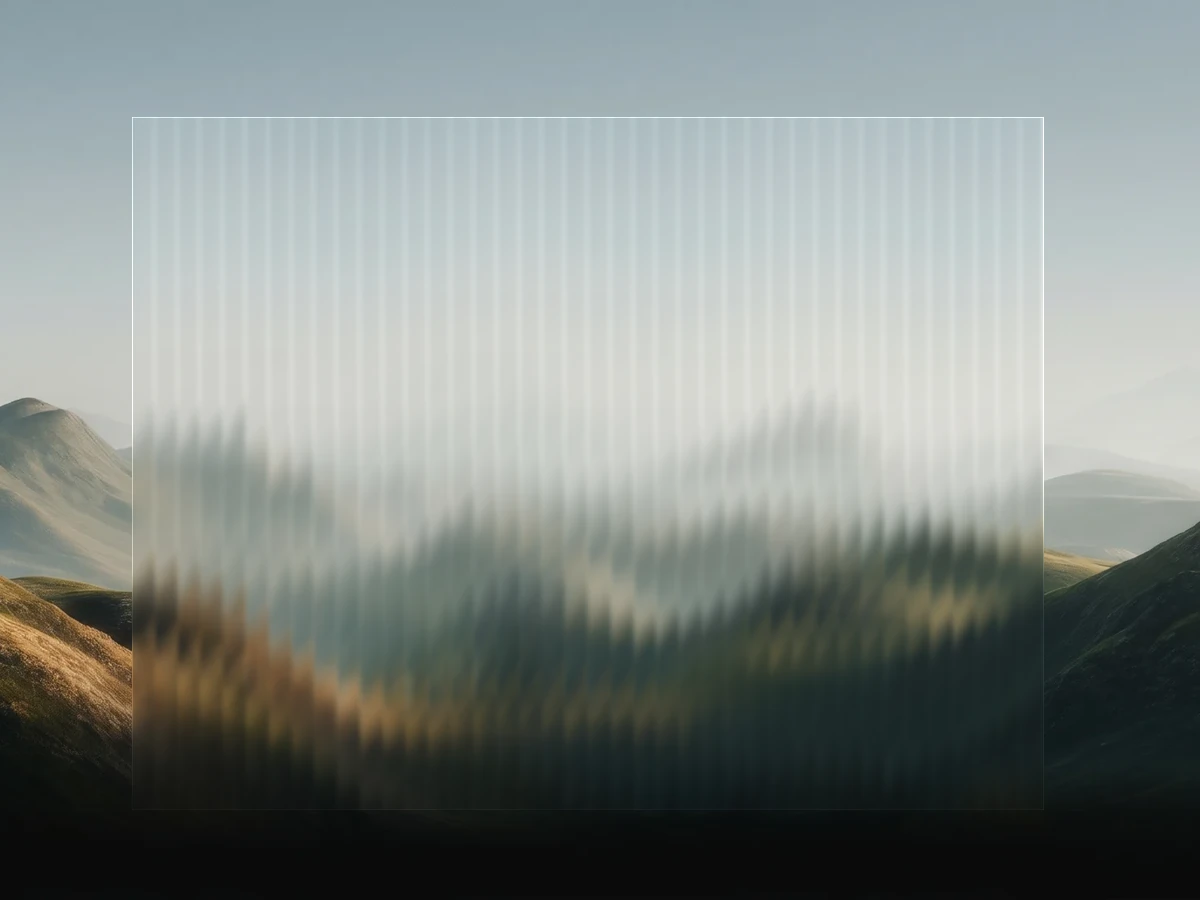
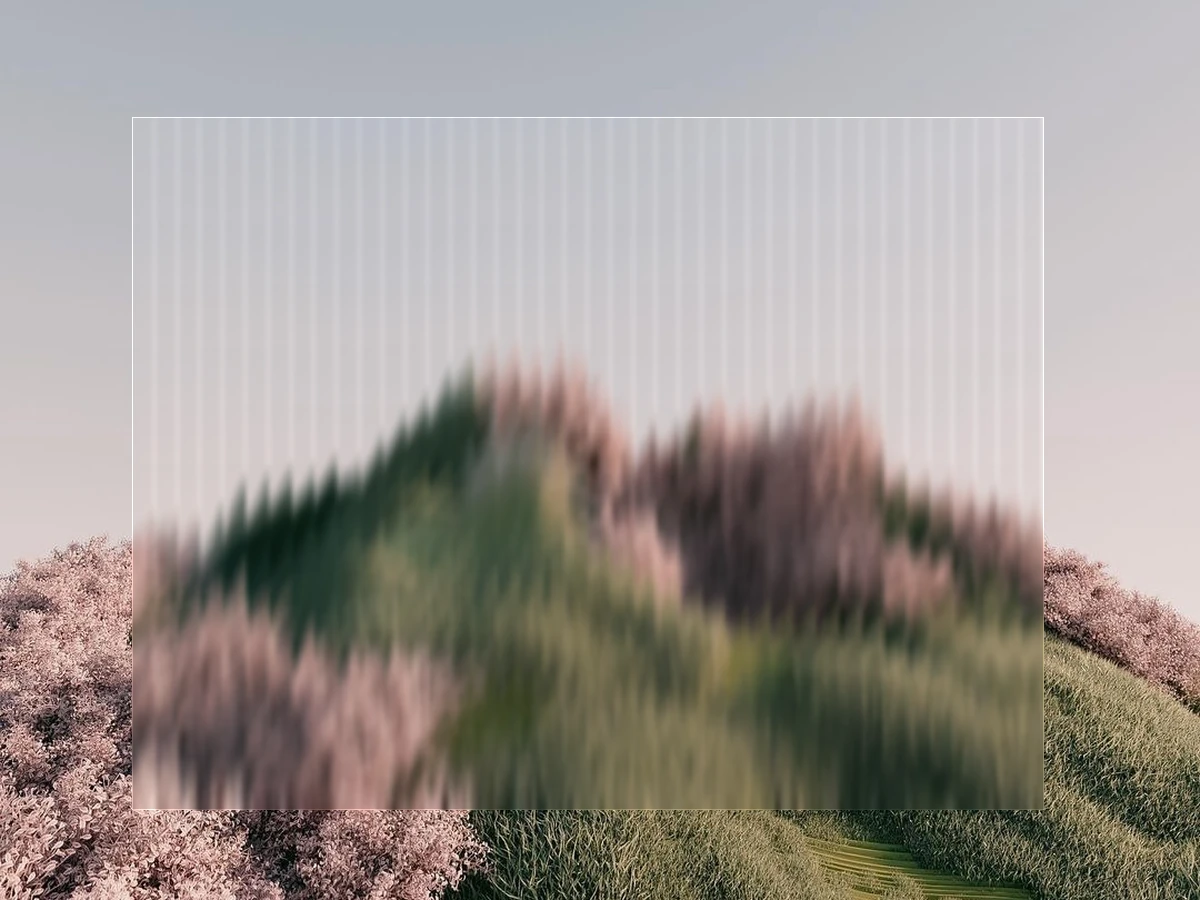
About page: bigger hero title/subhead, new Voice/Box scenic backgrounds, and reworked Voice/Box/Services/Founder copy
Hero "Nivora" headline and subhead sized up for a cleaner look. Voice's frame now uses
the mossy rock photo, Box's the cherry-blossom hill. Voice's story now explains its
smart formatting (bullet points, email layout, chat-style messages) instead of flat
dictation. Box's story drops the "mazen" phrasing for "you don't lose sight of anything,
one app to check for communication." Services heading/intro and a new Founder paragraph
now tell one story: Nivora built its own system because market tools never fit, and that
system plus its AI expertise is what the services are.

diff --git a/src/pages/About.tsx b/src/pages/About.tsx
@@ -43,13 +43,13 @@ const COPY = {
     heroHeadline: 'Nivora',
     heroSub: 'Software and AI that simply works.',
     voiceStory:
-      'Talking is faster than typing, everyone knows that. Dictation just never delivered on it, spitting out text that sounded like a machine and needed redoing anyway. Voice flips that around: you speak, and out comes text that reads like you actually write. Ready to send, not to rewrite.',
+      'Talking is faster than typing, everyone knows that. Dictation just never delivered on it, spitting out text that sounded like a machine and needed redoing anyway. Voice flips that around. You speak, and Voice picks up not just what you say, but the shape it should take. List a few things, and they become clean bullet points. Say “write an email”, and out comes an email, opening and sign-off included. Send a message, and it reads short and direct, the way you would actually type it yourself. No more dictaphone dumping everything out flat. Ready to send, not to rewrite.',
     boxStory:
-      'Your attention lives across ten apps. A mail here, a chat there, a DM you only spot at night. Box pulls it all into one calm inbox, so nothing slips through the cracks again, and so you stop hunting for where things are. Read, sort, reply, all in one quiet place.',
+      'Your attention lives across ten apps. A mail here, a chat there, a DM you only spot at night. Box pulls it all into one calm inbox, so nothing slips past you anymore, and communication becomes just one app to check. Read, sort, reply, all in one quiet place.',
     joinWaitlist: 'Join the waiting list',
-    servicesHeading: 'Custom software and AI, built around your business.',
+    servicesHeading: 'Software and AI, born from our own system.',
     servicesIntro:
-      'For teams that want to get everything out of AI and stay ahead, not just dabble with it. We design, build and install exactly what fits the way you already work.',
+      'When we went looking for the right tools ourselves, we ran into the same problem most companies have: plenty of tools, but nothing really built for how we work. So we built our own system, one we keep designing, optimising and extending ourselves. That is what lets a very lean team scale like a much bigger company. These services are what grew out of that: the same system, and the AI knowledge we keep maintaining, now for your business too.',
     morePre: 'And this is only the beginning. We want to build so much more, and we share every step on the ',
     moreLink: 'blog',
     morePost: '.',
@@ -71,6 +71,8 @@ const COPY = {
     founderP2:
       "So we do it the other way round. Work first, technology second. Not AI because it is AI, but because it takes something off your plate that you feel every single day. And always on something that is yours, not rented, not sitting in a cloud you cannot see into.",
     founderP3:
+      "We ran into that exact same problem ourselves. AI tools everywhere, but nothing really built for Nivora. So we built our own system, one we design, optimise and keep extending ourselves. That is exactly what lets a very lean team run and scale like a much bigger company. That system, and everything we keep learning about AI along the way, is where our services come from. We offer what we already proved on ourselves first.",
+    founderP4:
       "Sometimes we sharpen what you already have, sometimes we build from scratch. Honestly, that part does not matter much. What matters is that the thing just works, quietly, so you can get on with your day instead of fighting your tools. That is the whole point.",
     founderSign: 'Founder, based in Brugge, Belgium',
     ctaHeading: "Let's build the right thing",
@@ -86,13 +88,13 @@ const COPY = {
     heroHeadline: 'Nivora',
     heroSub: 'Software en AI die gewoon werkt.',
     voiceStory:
-      'Praten gaat sneller dan typen, dat weet iedereen. Alleen leverde dicteren dat nooit op: tekst die klonk als een machine en die u toch weer moest herschrijven. Voice draait dat om. U spreekt, en er komt tekst uit die klinkt zoals u écht schrijft. Klaar om te versturen, niet om over te doen.',
+      'Praten gaat sneller dan typen, dat weet iedereen. Alleen leverde dicteren dat nooit op: tekst die klonk als een machine en die u toch weer moest herschrijven. Voice draait dat om. U spreekt, en Voice hoort niet alleen wát u zegt, maar ook welke vorm het moet krijgen. Somt u iets op, dan worden het nette bullet points. Zegt u “schrijf een e-mail”, dan komt er een e-mail uit, met aanhef en afsluiting. Stuurt u een bericht, dan klinkt het kort en direct, zoals u het zelf zou typen. Geen dicteerapparaat meer dat alles plat achter elkaar plakt. Klaar om te versturen, niet om over te doen.',
     boxStory:
-      'Uw aandacht ligt verspreid over tien apps. Een mail hier, een chat daar, een DM die u pas ’s avonds opmerkt. Box brengt het allemaal samen in één rustige inbox, zodat niets nog tussen de mazen glipt en u niet meer moet zoeken waar iets staat. Lezen, sorteren, antwoorden, op één rustige plek.',
+      'Uw aandacht ligt verspreid over tien apps. Een mail hier, een chat daar, een DM die u pas ’s avonds opmerkt. Box brengt het allemaal samen in één rustige inbox, zodat u niets meer over het hoofd ziet en u nog maar één app hoeft te checken voor al uw communicatie. Lezen, sorteren, antwoorden, op één rustige plek.',
     joinWaitlist: 'Schrijf u in op de wachtlijst',
-    servicesHeading: 'Software en AI op maat, gebouwd rond uw bedrijf.',
+    servicesHeading: 'Software en AI, ontstaan uit ons eigen systeem.',
     servicesIntro:
-      'Voor teams die er echt alles uit willen halen en vooropwillen lopen, niet er wat mee prutsen. We ontwerpen, bouwen en installeren precies wat past bij hoe u al werkt.',
+      'Toen we zelf op zoek gingen naar de juiste tools, botsten we op hetzelfde probleem als de meeste bedrijven: genoeg aanbod, maar niets echt op maat. Dus bouwden we ons eigen systeem, dat we zelf blijven ontwerpen, optimaliseren en uitbreiden. Daardoor kan een heel lean team schalen als een veel groter bedrijf. Deze diensten zijn wat daaruit is gegroeid: hetzelfde systeem, en de kennis rond AI die we blijven bijhouden, nu ook voor uw bedrijf.',
     morePre: 'En dit is nog maar het begin. We willen nog veel meer bouwen, en we delen elke stap op de ',
     moreLink: 'blog',
     morePost: '.',
@@ -114,6 +116,8 @@ const COPY = {
     founderP2:
       'Dus doen wij het andersom. Eerst het werk, dan pas de technologie. Geen AI omdat het AI is, maar omdat het iets van uw bord haalt dat u elke dag voelt. En altijd op iets dat van u is, niet gehuurd, niet ergens in een cloud waar u geen zicht op hebt.',
     founderP3:
+      'We botsten zelf op precies hetzelfde probleem. Overal AI-tools, maar niets dat echt voor Nivora was gemaakt. Dus bouwden we ons eigen systeem, dat we zelf ontwerpen, optimaliseren en steeds verder uitbouwen. Dat is precies wat een heel lean team laat draaien en schalen zoals een veel groter bedrijf. En dat systeem, met alles wat we blijven bijleren over AI, is waar onze diensten vandaan komen. Wij bieden aan wat we eerst op onszelf hebben bewezen.',
+    founderP4:
       'Soms scherpen we bij wat u al hebt, soms bouwen we van nul. Eerlijk, dat deel maakt niet zoveel uit. Wat telt, is dat het gewoon werkt, in stilte, zodat u met uw dag bezig kunt zijn in plaats van met uw tools. Daar draait het om.',
     founderSign: 'Oprichter, gevestigd in Brugge, België',
     ctaHeading: 'Laat ons het juiste bouwen',
@@ -238,7 +242,7 @@ function Hero() {
         animate="show"
         className="relative z-10 mx-auto flex w-full max-w-3xl flex-col items-center text-center"
       >
-        <h1 className="font-serif text-[38px] leading-[1.08] tracking-[-0.02em] text-ink [text-shadow:0_2px_30px_rgba(0,0,0,0.5)] sm:text-[52px] lg:text-[64px] lg:leading-[1.04]">
+        <h1 className="font-serif text-[64px] leading-[1.02] tracking-[-0.02em] text-ink [text-shadow:0_2px_30px_rgba(0,0,0,0.5)] sm:text-[92px] lg:text-[132px] lg:leading-[0.98]">
           {t.heroHeadline.split(' ').map((w, i) => (
             <motion.span key={i} variants={heroWord} className="mr-[0.22em] inline-block last:mr-0">
               {w}
@@ -248,7 +252,7 @@ function Hero() {
 
         <motion.p
           variants={heroFade}
-          className="mt-7 max-w-2xl text-[15.5px] leading-relaxed text-ink-soft/85 [text-shadow:0_1px_14px_rgba(0,0,0,0.5)] lg:text-[17px]"
+          className="mt-8 max-w-2xl text-[19px] leading-relaxed text-ink-soft/85 [text-shadow:0_1px_14px_rgba(0,0,0,0.5)] lg:text-[24px]"
         >
           {t.heroSub}
         </motion.p>
@@ -451,9 +455,12 @@ function Founder() {
             <Reveal delay={0.24}>
               <p>{t.founderP3}</p>
             </Reveal>
+            <Reveal delay={0.3}>
+              <p>{t.founderP4}</p>
+            </Reveal>
           </div>
 
-          <Reveal delay={0.3}>
+          <Reveal delay={0.36}>
             <div className="mt-8 flex flex-wrap items-baseline gap-x-4 gap-y-1">
               <span className="font-serif text-[24px] italic leading-none text-ink/90">{t.founderName}</span>
               <span className="text-[13.5px] text-faint">{t.founderSign}</span>
